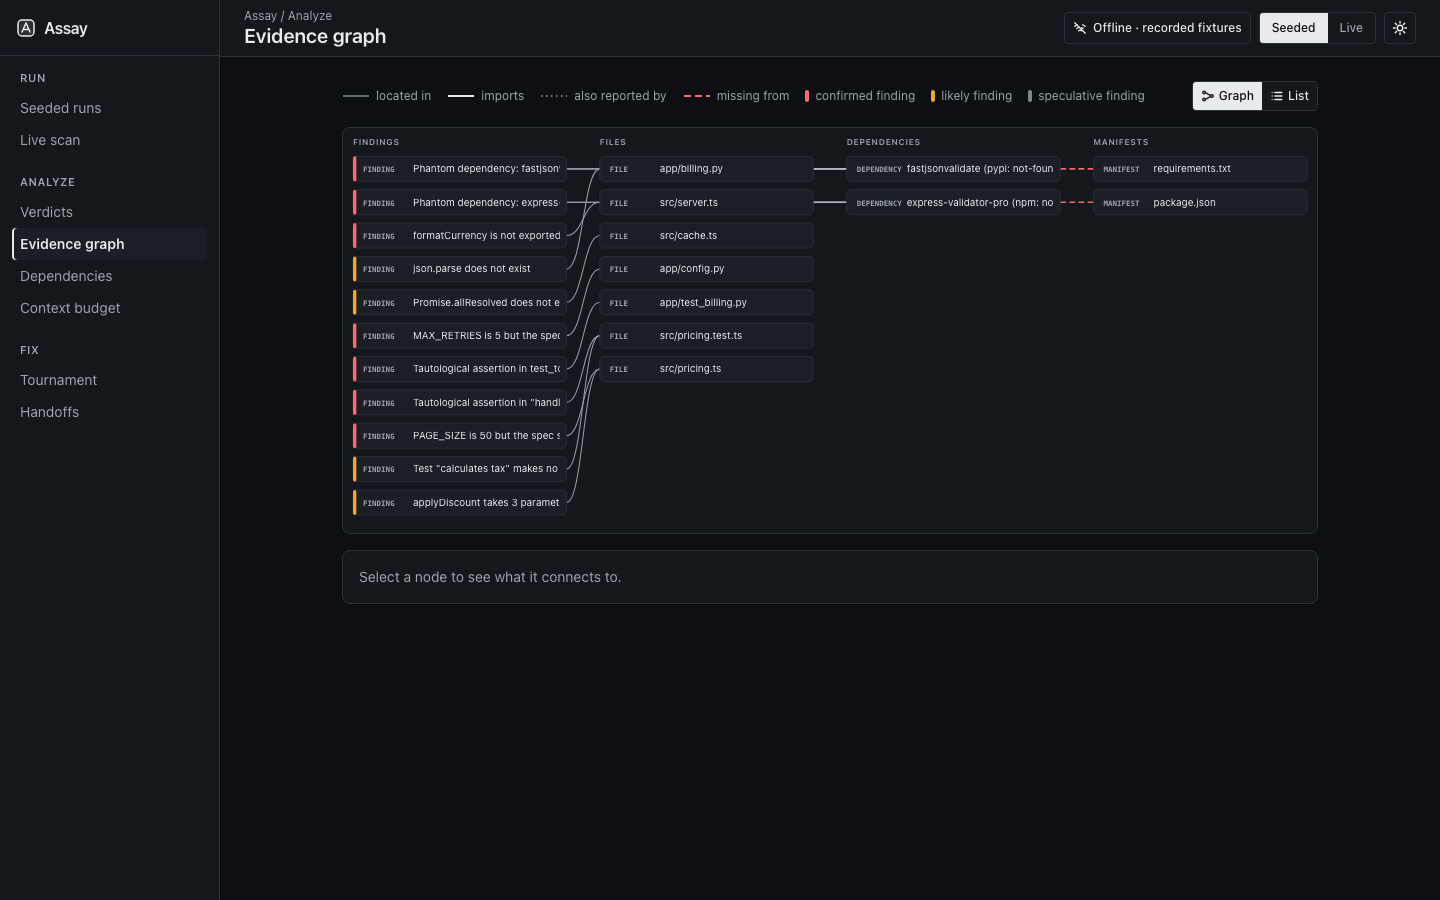
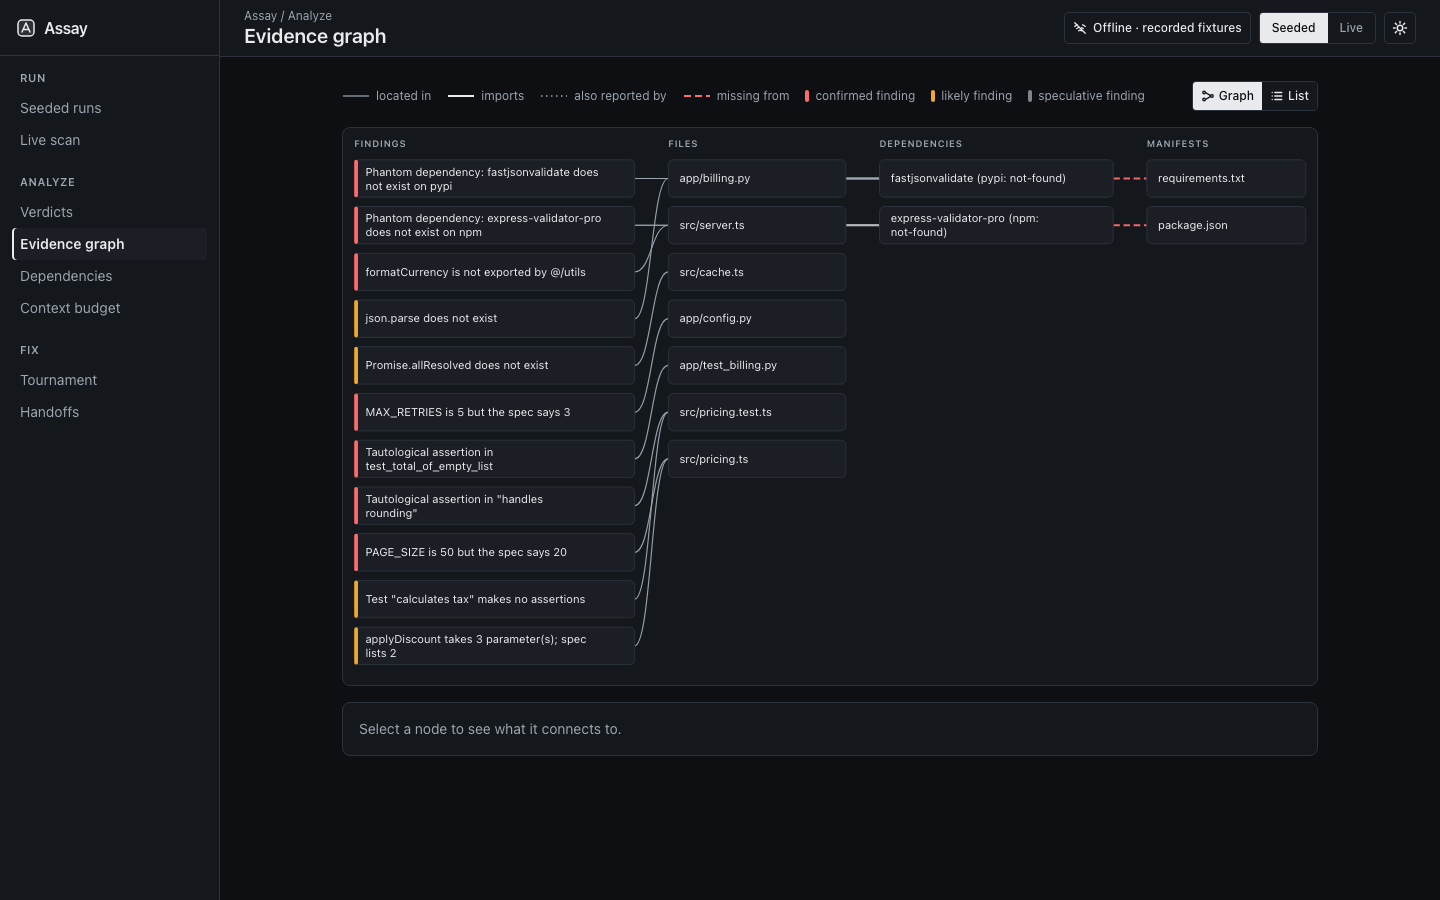
Wrap graph node labels and keep full text in inspector

diff --git a/src/app/components/evidence-graph.tsx b/src/app/components/evidence-graph.tsx
@@ -25,14 +25,43 @@ const EDGE_STYLE: Record<Edge["kind"], { dash?: string; width: number; color: st
   "missing-from": { width: 2, color: "var(--confirmed-solid)", dash: "7 4" },
 };
 
-export const NODE_W = 256, NODE_H = 30, ROW_GAP = 10, COL_GAP = 40, PAD = 12, HEAD = 22;
+/** Column widths by node kind: findings carry the longest labels. */
+export const COL_W: Record<Kind, number> = { finding: 300, file: 190, dependency: 250, manifest: 170 };
+export const NODE_H = 40, ROW_GAP = 10, COL_GAP = 36, PAD = 12, HEAD = 22, LINE_PX = 6.3, MAX_LINES = 2;
 
 export function layoutGraph(g: EvidenceGraph) {
-  const pos = new Map<string, { x: number; y: number }>();
+  const pos = new Map<string, { x: number; y: number; w: number }>();
   const used = COLUMNS.filter((k) => g.nodes.some((n) => n.kind === k));
-  used.forEach((k, ci) => g.nodes.filter((n) => n.kind === k).forEach((n, ri) => pos.set(n.id, { x: PAD + ci * (NODE_W + COL_GAP), y: PAD + HEAD + ri * (NODE_H + ROW_GAP) })));
+  let x = PAD;
+  const colX: Partial<Record<Kind, number>> = {};
+  for (const k of used) {
+    colX[k] = x;
+    g.nodes.filter((n) => n.kind === k).forEach((n, ri) => pos.set(n.id, { x: x!, y: PAD + HEAD + ri * (NODE_H + ROW_GAP), w: COL_W[k] }));
+    x += COL_W[k] + COL_GAP;
+  }
   const rows = Math.max(1, ...used.map((k) => g.nodes.filter((n) => n.kind === k).length));
-  return { pos, columns: used, width: PAD * 2 + used.length * NODE_W + Math.max(0, used.length - 1) * COL_GAP, height: PAD * 2 + HEAD + rows * (NODE_H + ROW_GAP) };
+  return { pos, colX, columns: used, width: x - COL_GAP + PAD, height: PAD * 2 + HEAD + rows * (NODE_H + ROW_GAP) };
+}
+
+/**
+ * Greedy word wrap into at most `maxLines` lines of `maxChars`. Over-long words are hard-broken.
+ * Only text beyond the last line is dropped, and then the last line ends with an ellipsis.
+ */
+export function wrapLabel(text: string, maxChars: number, maxLines = MAX_LINES): string[] {
+  const words = text.split(/\s+/).filter(Boolean).flatMap((w) => (w.length > maxChars ? w.match(new RegExp(`.{1,${maxChars}}`, "g")) ?? [w] : [w]));
+  const lines: string[] = [];
+  let cur = "";
+  for (const w of words) {
+    if (!cur) cur = w;
+    else if ((cur + " " + w).length <= maxChars) cur += " " + w;
+    else { lines.push(cur); cur = w; }
+  }
+  if (cur) lines.push(cur);
+  if (lines.length <= maxLines) return lines;
+  const kept = lines.slice(0, maxLines);
+  const last = kept[maxLines - 1]!;
+  kept[maxLines - 1] = (last.length >= maxChars ? last.slice(0, maxChars - 1) : last) + "…";
+  return kept;
 }
 
 const labelOf = (n: Node): { text: string; label?: Finding["label"] } => {
@@ -68,7 +97,7 @@ export function EvidenceGraphView({ graph, findings }: { graph: EvidenceGraph; f
     if (!a || !b) return null;
     const ay = a.y + NODE_H / 2, by = b.y + NODE_H / 2;
     if (a.x === b.x) { const x = a.x - 6; return `M${a.x},${ay} C${x - 24},${ay} ${x - 24},${by} ${b.x},${by}`; }
-    const [x1, x2] = a.x < b.x ? [a.x + NODE_W, b.x] : [a.x, b.x + NODE_W];
+    const [x1, x2] = a.x < b.x ? [a.x + a.w, b.x] : [a.x, b.x + b.w];
     const mx = (x1 + x2) / 2;
     return `M${x1},${ay} C${mx},${ay} ${mx},${by} ${x2},${by}`;
   };
@@ -86,7 +115,7 @@ export function EvidenceGraphView({ graph, findings }: { graph: EvidenceGraph; f
       <div className={graphCls} data-testid="graph-canvas">
         <div className="overflow-x-auto rounded-lg border border-line bg-surface">
           <svg role="group" aria-label="Evidence graph. Select a node to inspect it." viewBox={`0 0 ${L.width} ${L.height}`} width="100%" style={{ minWidth: Math.min(L.width, 720), height: "auto" }}>
-            {L.columns.map((k, i) => <text key={k} x={PAD + i * (NODE_W + COL_GAP)} y={PAD + 8} fontSize="10" fontWeight="600" letterSpacing="0.08em" fill="var(--text-muted)">{KIND_TEXT[k].plural.toUpperCase()}</text>)}
+            {L.columns.map((k) => <text key={k} x={L.colX[k]} y={PAD + 8} fontSize="10" fontWeight="600" letterSpacing="0.08em" fill="var(--text-muted)">{KIND_TEXT[k].plural.toUpperCase()}</text>)}
             {graph.edges.map((e, i) => {
               const d = path(e); if (!d) return null;
               const st = EDGE_STYLE[e.kind];
@@ -96,15 +125,16 @@ export function EvidenceGraphView({ graph, findings }: { graph: EvidenceGraph; f
             {graph.nodes.map((n) => {
               const p = L.pos.get(n.id); if (!p) return null;
               const { text, label } = labelOf(n);
+              const lines = wrapLabel(text, Math.floor((p.w - 24) / LINE_PX));
               const isSel = n.id === selected, dim = !!selected && !connected.has(n.id);
               return (
                 <g key={n.id} role="button" tabIndex={0} aria-pressed={isSel} aria-label={`${KIND_TEXT[n.kind].tag} ${text}`} data-testid="graph-node"
                   onClick={() => pick(n.id)} onKeyDown={onKey(n.id)} opacity={dim ? 0.35 : 1} style={{ cursor: "pointer" }}>
-                  <clipPath id={`clip-${n.id.replace(/[^\w]/g, "_")}`}><rect x={p.x + 72} y={p.y} width={NODE_W - 80} height={NODE_H} /></clipPath>
-                  <rect x={p.x} y={p.y} width={NODE_W} height={NODE_H} rx={5} fill="var(--surface-2)" stroke={isSel ? "var(--focus)" : "var(--border)"} strokeWidth={isSel ? 2 : 1} />
+                  <rect x={p.x} y={p.y} width={p.w} height={NODE_H} rx={5} fill="var(--surface-2)" stroke={isSel ? "var(--focus)" : "var(--border)"} strokeWidth={isSel ? 2 : 1} />
                   {label && <rect x={p.x} y={p.y} width={4} height={NODE_H} rx={2} fill={STRIPE[label]} />}
-                  <text x={p.x + 12} y={p.y + 19} fontSize="9" fontWeight="700" fontFamily="var(--font-mono)" fill="var(--text-muted)">{`${KIND_TEXT[n.kind].tag} `}</text>
-                  <text x={p.x + 72} y={p.y + 19} fontSize="12" fill="var(--text)" clipPath={`url(#clip-${n.id.replace(/[^\w]/g, "_")})`}>{text}</text>
+                  <text x={p.x + 12} y={p.y + (lines.length === 1 ? NODE_H / 2 + 4 : 17)} fontSize="12" fill="var(--text)" data-testid="graph-node-text">
+                    {lines.map((ln, i) => <tspan key={i} x={p.x + 12} dy={i === 0 ? 0 : 15}>{i < lines.length - 1 ? ln + " " : ln}</tspan>)}
+                  </text>
                 </g>
               );
             })}

diff --git a/tests/ui-views.test.tsx b/tests/ui-views.test.tsx
@@ -5,6 +5,7 @@ import userEvent from "@testing-library/user-event";
 import { afterEach, beforeAll, beforeEach, describe, expect, it, vi } from "vitest";
 import { Dashboard } from "@/app/dashboard";
 import { EnvStatus } from "@/app/shell";
+import { wrapLabel } from "@/app/components/evidence-graph";
 import { scanSeeded, scanView, tournamentFor, type ScanView } from "@/core/service";
 
 let seededView: ScanView;
@@ -195,6 +196,49 @@ describe("Evidence graph view", () => {
     await screen.findAllByTestId("graph-node");
     const list = screen.getByTestId("graph-list");
     expect(within(list).getAllByRole("button").length).toBe(seededView.graph.nodes.length);
+  });
+});
+
+describe("Graph node labels", () => {
+  const plain = (label: string) => label.replace(/ \[(confirmed|likely|speculative)\]$/, "").replace(/`/g, "");
+
+  it("shows the full label text on every node in the seeded graph (wrapped, not truncated)", async () => {
+    mockFetch(okSeeded);
+    go("graph");
+    render(<Dashboard />);
+    const nodes = await screen.findAllByTestId("graph-node");
+    expect(nodes).toHaveLength(seededView.graph.nodes.length);
+    for (const n of seededView.graph.nodes) {
+      const full = plain(n.label);
+      const el = nodes.find((x) => x.getAttribute("aria-label")!.endsWith(` ${full}`));
+      expect(el, `node for "${full}"`).toBeDefined();
+      const shown = (within(el!).getByTestId("graph-node-text").textContent ?? "").replace(/\s+/g, " ").trim();
+      expect(shown).toBe(full);
+      expect(shown).not.toContain("…");
+    }
+  });
+
+  it("keeps the full text in the inspector", async () => {
+    mockFetch(okSeeded);
+    go("graph");
+    render(<Dashboard />);
+    const nodes = await screen.findAllByTestId("graph-node");
+    const long = seededView.graph.nodes.filter((n) => n.kind === "finding").sort((a, b) => b.label.length - a.label.length)[0]!;
+    await userEvent.click(nodes.find((x) => x.getAttribute("aria-label")!.endsWith(` ${plain(long.label)}`))!);
+    expect(screen.getByTestId("graph-inspector").textContent).toContain(plain(long.label).replace(/`/g, ""));
+  });
+
+  it("wrapLabel wraps to two lines and only truncates beyond that", () => {
+    expect(wrapLabel("short label", 30)).toEqual(["short label"]);
+    const long = "Phantom dependency: express-validator-pro does not exist on npm";
+    expect(wrapLabel(long, 70)).toEqual([long]);
+    expect(wrapLabel(long, 40)).toEqual(["Phantom dependency:", "express-validator-pro does not exist on…"]);
+    const two = wrapLabel("aaa bbb ccc ddd eee fff", 8);
+    expect(two).toEqual(["aaa bbb", "ccc ddd…"]);
+    const hard = wrapLabel("x".repeat(25), 10);
+    expect(hard).toHaveLength(2);
+    expect(hard[1]!.endsWith("…")).toBe(true);
+    expect(wrapLabel("one two three four", 9)).toHaveLength(2);
   });
 });
 

diff --git a/DECISIONS.md b/DECISIONS.md
@@ -51,3 +51,4 @@ Every default chosen or changed while building from PLAN.md. Numbers match the p
 - **F25 `offline` is reported by the API.** Every scan carries `offline: boolean` (seeded route, live route, MCP `assay_review`/`assay_check_deps`). It is `true` when `ASSAY_OFFLINE=1`, when the offline option was used, or when no registry lookup actually went to the network (all answers from recorded fixtures, the popular snapshot, or the disk cache). It is `false` only if at least one registry request left the machine (`RegistryClient.networkCalls > 0`). It describes *registry* lookups only: a GitHub scan still fetches from `api.github.com`, which is why the badge reads "Offline · registry from fixtures/cache" rather than "Offline" for live scans. The badge uses this field; the earlier inference (F22) is superseded.
 - **F26 The allowlist is absolute; OpenAI removed.** `OpenAiLlmClient`, the `openai` dependency (package.json, lockfile, `next.config.mjs`), `ASSAY_LLM`, `OPENAI_API_KEY` and `ASSAY_MODEL` handling, and the related README/`.env.example` entries are gone. `HeuristicLlmClient` is the only `LlmClient`. The only outbound hosts are `api.github.com`, `registry.npmjs.org` and `pypi.org`. If a model-backed reviewer is added later it should be a separate module with its own explicit allowlist entry, its own tests, and a documented opt-in, rather than a carve-out in the data allowlist. Remaining textual matches for "openai" in the repo are: the package *name* in the popular-package snapshots, this file, one regression test (`tests/llm.test.ts`) that sets those variables to prove they are ignored, and the user-supplied `PLAN.md`.
 - **F27 Dependencies on mobile.** Under 768px (`md`) the issues table is replaced by stacked cards (package, registry, status as icon + text, verdict, location); at ≥768px the table is shown and the cards are hidden. Both are in the DOM; CSS picks one.
+- **F28 Graph node labels.** Nodes now show the full label wrapped to at most two lines (per-column widths: findings 300, files 190, dependencies 250, manifests 170); only text beyond two lines is truncated, with an ellipsis. The kind tag moved out of the node (column headers show it; the accessible name still starts with the kind). Full text is always in the inspector and in the node's accessible name. Hover tooltips stay removed. Supersedes the node-label part of F24.
